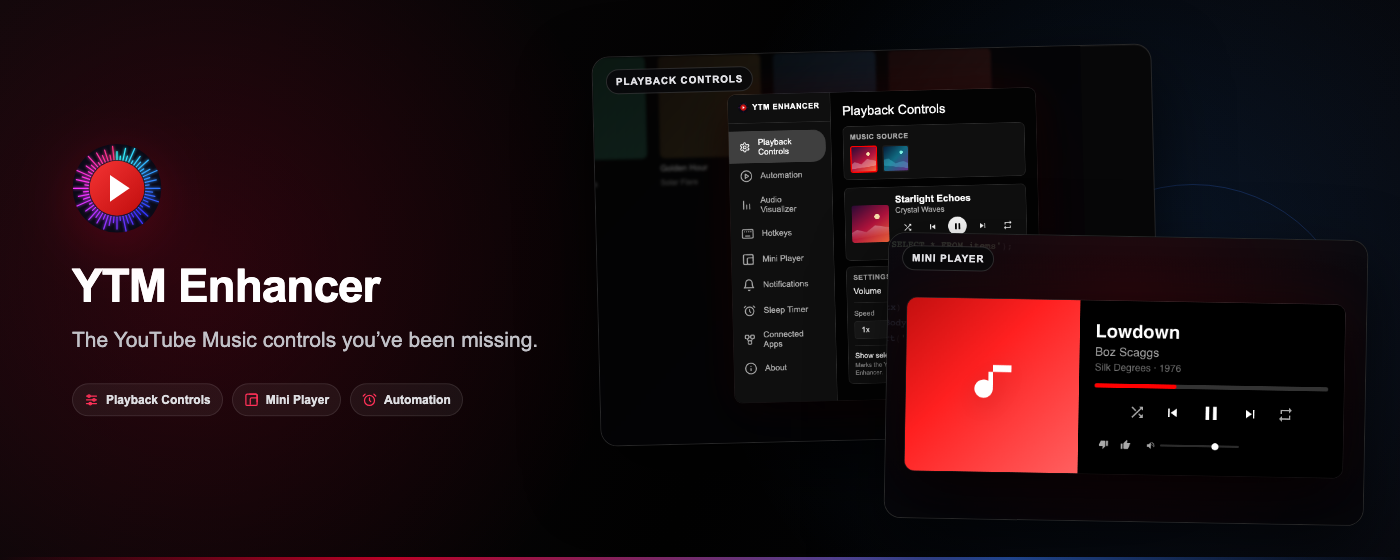
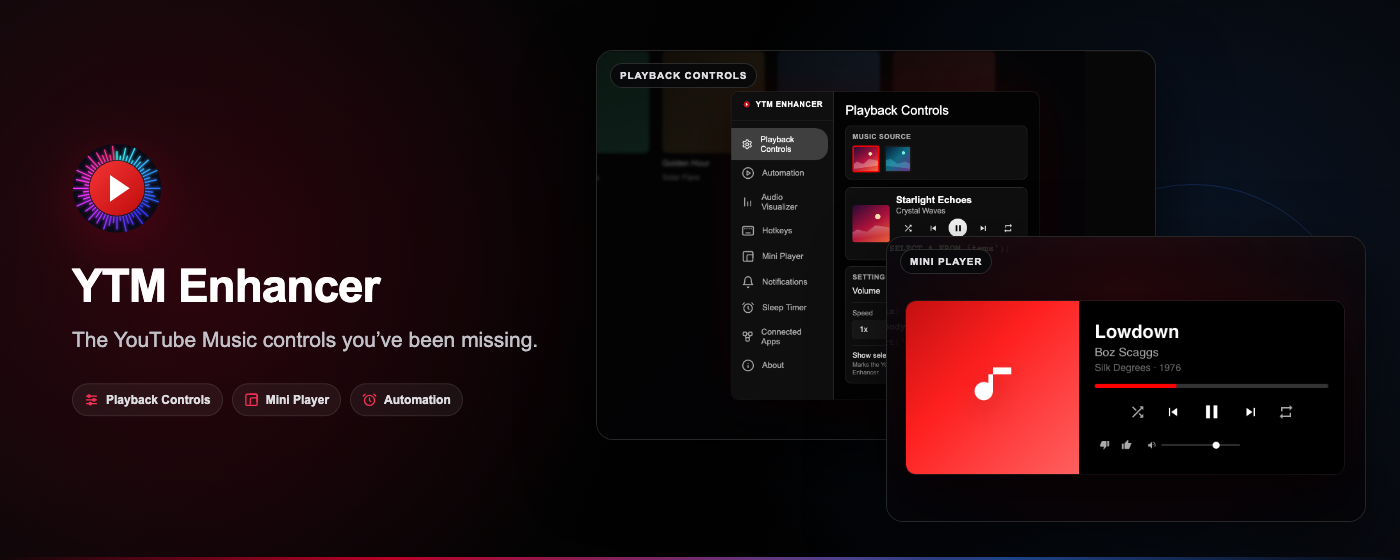
fix(store): level marquee feature cards

diff --git a/store/screenshots/promo-marquee-1400x560.html b/store/screenshots/promo-marquee-1400x560.html
@@ -150,7 +150,6 @@
         z-index: 1;
         width: 560px;
         height: 390px;
-        transform: rotate(-1.4deg);
       }
 
       .playback img {
@@ -166,7 +165,6 @@
         z-index: 3;
         width: 480px;
         height: 286px;
-        transform: rotate(1deg);
       }
 
       .mini img {
